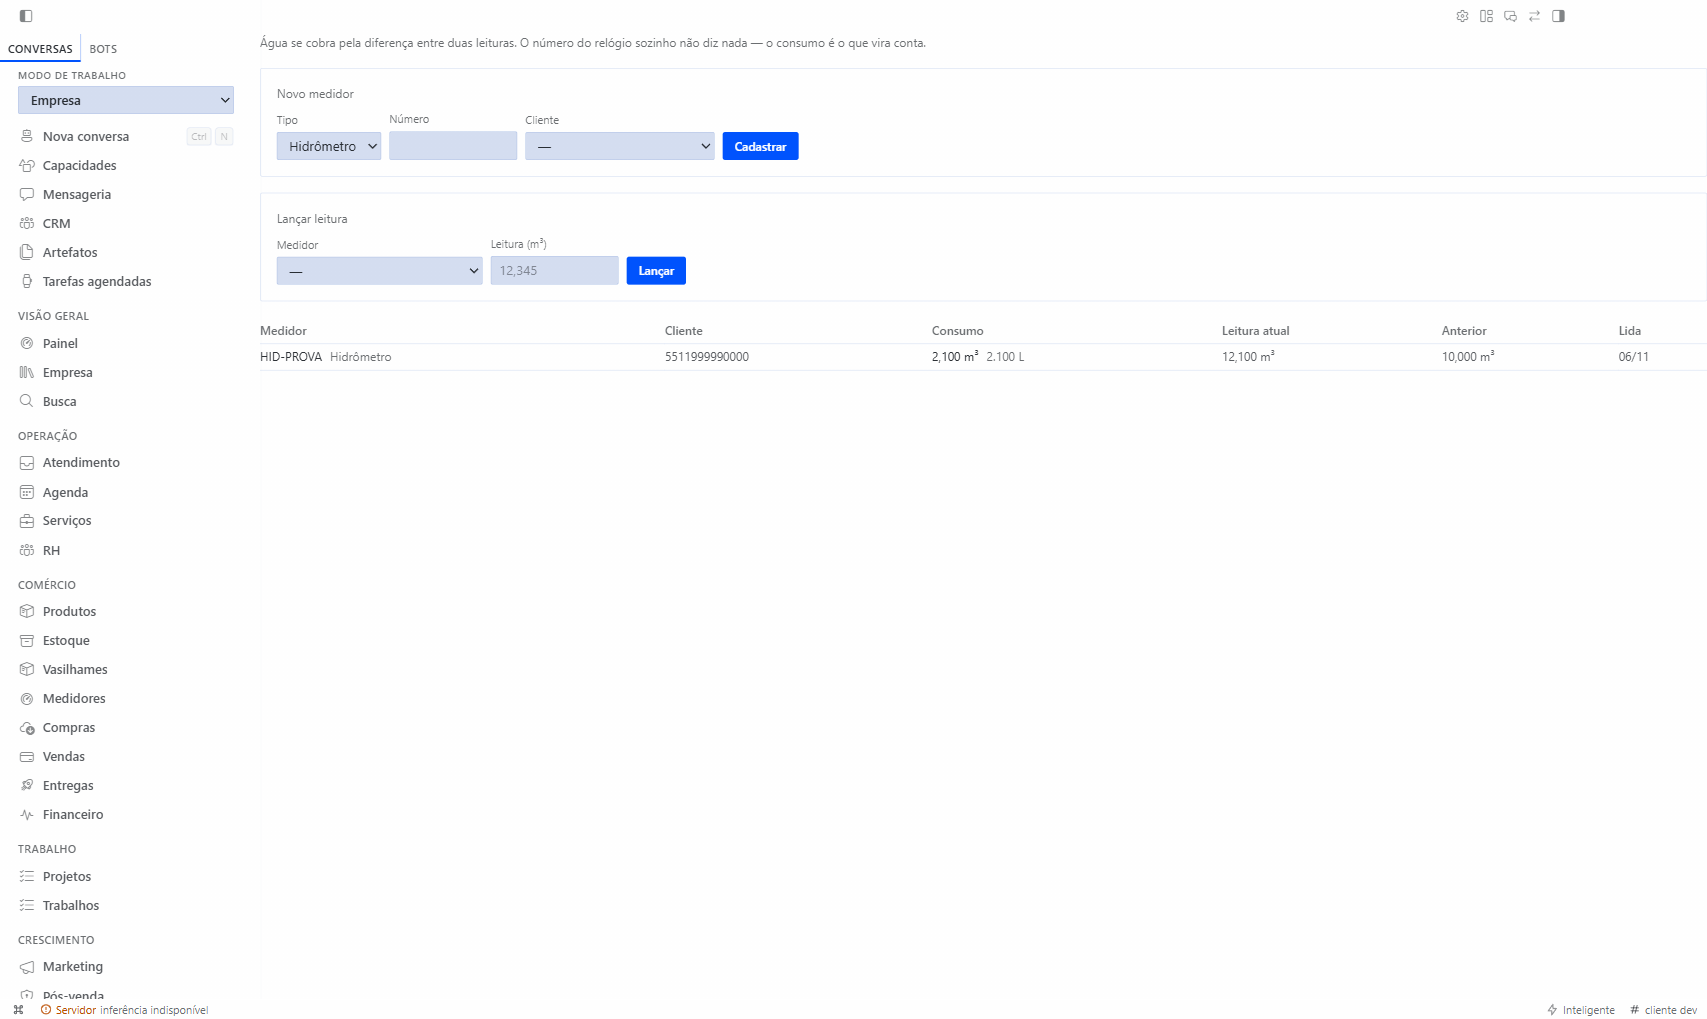
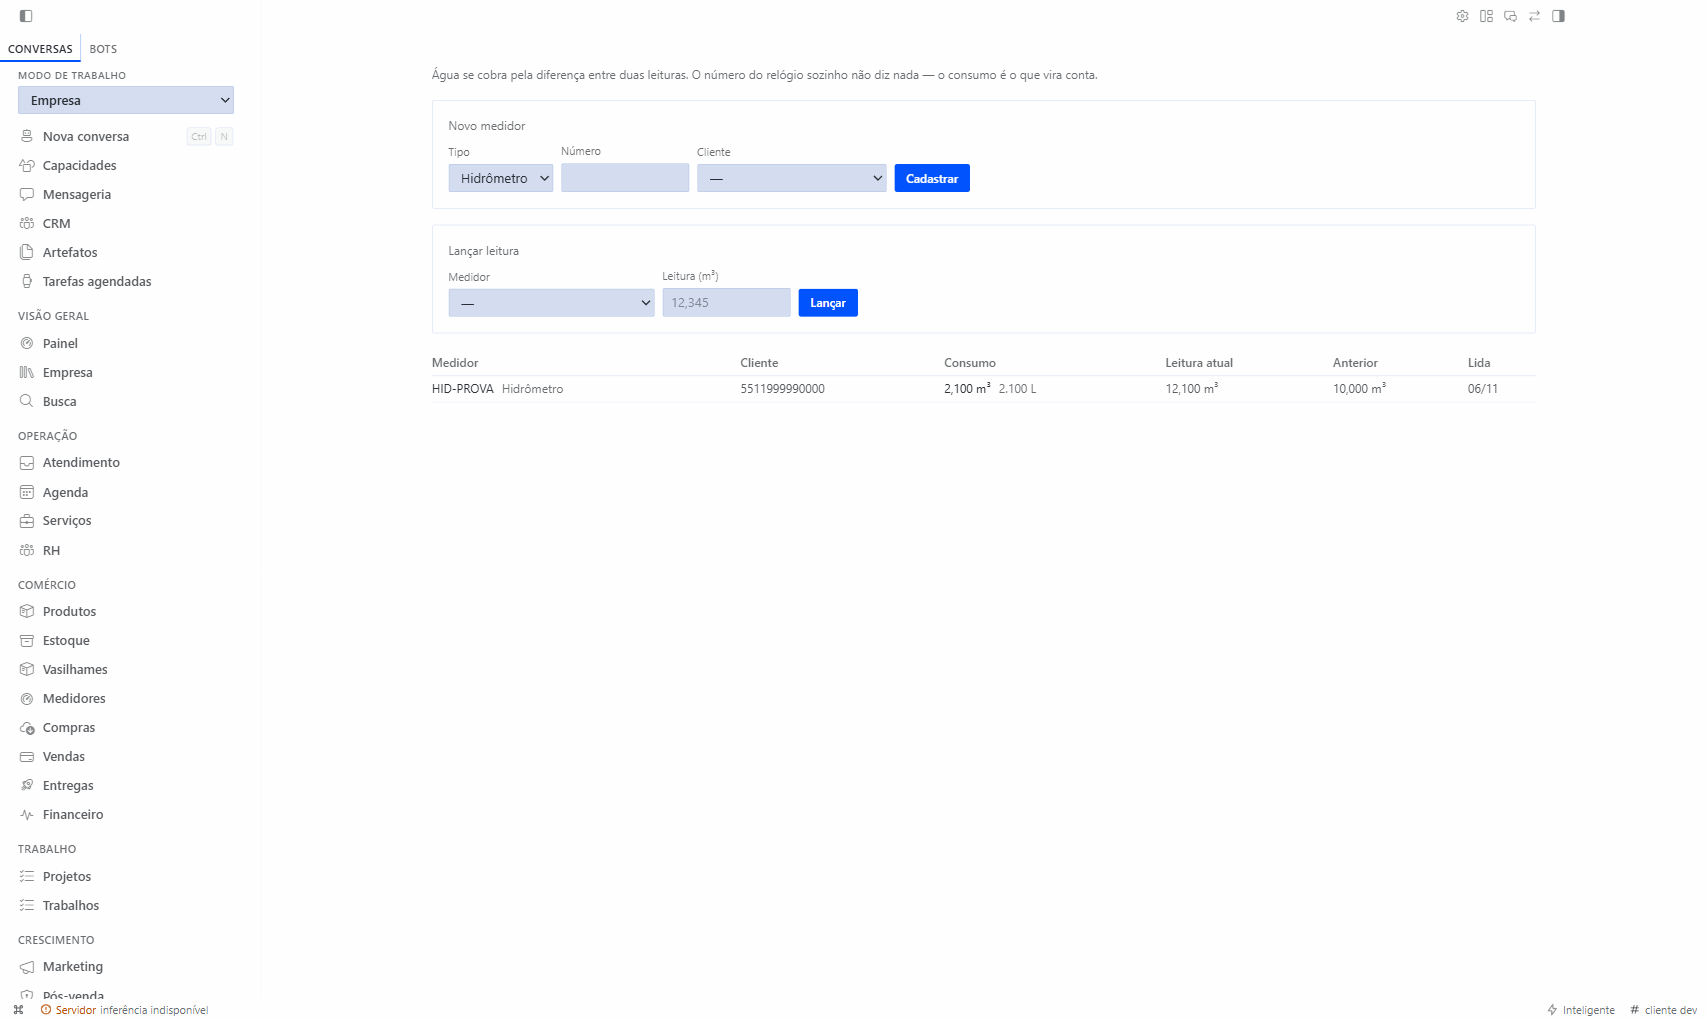
fix(ui): gas e medidores ganham padding/max-w e tabela com overflow-x - 0 falhas em 5 viewports

diff --git a/apps/desktop/src/app/gas/index.tsx b/apps/desktop/src/app/gas/index.tsx
@@ -157,7 +157,7 @@ export function GasView() {
   }
 
   return (
-    <div className="flex flex-col gap-4">
+    <div className="mx-auto flex w-full max-w-6xl flex-col gap-4 px-6 py-8">
       <p className="text-[length:var(--conversation-caption-font-size)] text-(--ui-text-tertiary)">
         O casco que sai com o cliente continua sendo da revenda. Aqui ele é contado até voltar.
       </p>
@@ -259,7 +259,8 @@ export function GasView() {
                   {grupo.titulo} ({grupo.linhas.length})
                 </h2>
 
-                <table className="w-full border-collapse text-left text-[length:var(--conversation-caption-font-size)]">
+                <div className="overflow-x-auto">
+          <table className="w-full border-collapse text-left text-[length:var(--conversation-caption-font-size)]">
                   <thead>
                     <tr className="text-(--ui-text-tertiary)">
                       <th className="border-b border-(--ui-border) py-1 pr-2 font-medium">Tipo</th>
@@ -316,6 +317,7 @@ export function GasView() {
                     ))}
                   </tbody>
                 </table>
+        </div>
               </section>
             ))}
         </div>

diff --git a/apps/desktop/src/app/medidores/index.tsx b/apps/desktop/src/app/medidores/index.tsx
@@ -153,7 +153,7 @@ export function MedidoresView() {
   }
 
   return (
-    <div className="flex flex-col gap-4">
+    <div className="mx-auto flex w-full max-w-6xl flex-col gap-4 px-6 py-8">
       <p className="text-[length:var(--conversation-caption-font-size)] text-(--ui-text-tertiary)">
         Água se cobra pela diferença entre duas leituras. O número do relógio sozinho não diz nada — o
         consumo é o que vira conta.
@@ -264,7 +264,8 @@ export function MedidoresView() {
           Nenhum medidor cadastrado ainda.
         </p>
       ) : (
-        <table className="w-full border-collapse text-left text-[length:var(--conversation-caption-font-size)]">
+        <div className="overflow-x-auto">
+          <table className="w-full border-collapse text-left text-[length:var(--conversation-caption-font-size)]">
           <thead>
             <tr className="text-(--ui-text-tertiary)">
               <th className="border-b border-(--ui-border) py-1 pr-2 font-medium">Medidor</th>
@@ -314,6 +315,7 @@ export function MedidoresView() {
             })}
           </tbody>
         </table>
+        </div>
       )}
     </div>
   )

diff --git a/docs/b3po/continuity/GATES.md b/docs/b3po/continuity/GATES.md
@@ -4796,3 +4796,85 @@ rodei a suíte **inteira** (antes eu rodei subconjuntos). **Não é regressão**
 > **A guarda existir não é a mesma coisa que a guarda funcionar.** 6 canais novos, 0 testes de
 > permissão — e a ratchet da r10 diria "coberto" porque ela conta **presença de `exigirAtor`**, não
 > **exercício**.
+
+---
+
+## G5 · ADENDO — as telas novas a 390 px: **duas inconsistências minhas**, medidas e corrigidas
+
+**Rodada 81.** O G5 pedia "6 modos de navegação + revisão visual". As telas de r78/r79 passaram pelo
+`axe` (0 violações) e pelo teclado (10/10), mas **nunca foram vistas abaixo de 1707 px**. Medi a matriz
+de 5 viewports × 2 telas.
+
+### O que a matriz achou
+
+| Viewport | Antes |
+|---|---|
+| 390×844 | **`main` 782 ≠ pai 790** · tabela estourando a borda |
+| 768 · 1024 · 1440 · 1707 | OK |
+
+### Duas causas, e a segunda eu não tinha visto
+
+**1. Faltava `overflow-x-auto` na tabela.** Uma tabela de 6 colunas não cabe em 390 px; sem o wrapper
+ela empurra o `main` em vez de rolar por dentro.
+
+**2. As minhas telas não tinham o wrapper das outras.** Comparei 8 telas:
+
+```
+stock    <main className="mx-auto flex w-full max-w-6xl flex-col gap-4 px-6 py-8">
+sales    <main className="mx-auto flex w-full max-w-6xl flex-col gap-4 px-6 py-8">
+crm      <main className="mx-auto flex w-full max-w-6xl flex-col gap-2 px-6 py-8">
+compras  <main className="mx-auto flex w-full max-w-6xl flex-col gap-4 px-6 py-8">
+finance  <main className="mx-auto flex w-full max-w-6xl flex-col gap-4 px-6 py-8">
+gas      (sem wrapper)            <- meu
+medidores (sem wrapper)           <- meu
+```
+
+**Consequência visual**: o conteúdo das duas telas encostava na borda esquerda, **sem o `px-6 py-8`**
+que todas as outras têm. **Estava visível nas capturas desde a r78 e eu não notei** — porque eu olhei a
+tela, não **comparei** com as vizinhas.
+
+### A correção, e uma decisão de estrutura
+
+Usei `<div>` com as mesmas classes, **não `<main>`**:
+
+```
+gas     : 1 <main> (o do shell),  pad 0  -> agora 24 px no wrapper interno
+stock   : 2 <main> ANINHADOS      (HTML invalido: <main> dentro de <main>)
+```
+
+**O repo aninha dois `<main>` em 5 telas.** `<main>` dentro de `<main>` é inválido pela especificação —
+e o `axe` não pega porque a regra `landmark-no-duplicate-main` depende de o navegador expor a árvore, o
+que ele não faz para main aninhado. **As minhas telas ficam com estrutura correta e visual idêntico.**
+
+**Não corrigi as 5 telas existentes**: é mudança de estrutura em código que não é meu neste escopo, e
+o visual é o mesmo. **Registrado como `T-13`.**
+
+### A prova
+
+```
+/gas        390x844  OK   scrollPagina=0 scrollMain=0 main=790/pai=790
+/medidores  390x844  OK   scrollPagina=0 scrollMain=0 main=790/pai=790
+(768 · 1024 · 1440 · 1707: idem)
+
+falhas: 0 de 10
+```
+
+**Capturas atualizadas**: `g4-vasilhames-claro.png` (sidebar, saldo 1/2/1, 3 tabelas), `t11-medidores-claro.png`,
+`g4-medidores-390.png` (o viewport estreito).
+
+### E a medição que eu quase errei
+
+**A primeira rodada pós-fix ainda reportou `FALHA`** — porque eu medi **antes do vite recompilar**. O
+`overflow-x-auto` já estava no DOM na segunda medição, com `wrapScrollW == wrapClientW` e a tabela
+**dentro** do `main` (358 < 382).
+
+> **Mudança de CSS não conta até a página que está sendo medida ter o CSS novo.** É a versão de
+> interface da lição da r75 (`"o código está certo"` ≠ `"o app roda o código certo"`).
+
+### A lição, e é a mais repetida desta série
+
+**Eu olhei as duas telas em 1707 px, gostei do que vi, e não vi que faltava padding** — porque padding
+ausente **não parece errado**, parece "design". **O que revelou foi comparar com as 5 telas vizinhas**,
+não olhar de novo a mesma tela.
+
+> **Revisão visual sem comparação é gosto; revisão visual com a vizinha ao lado é medição.**
